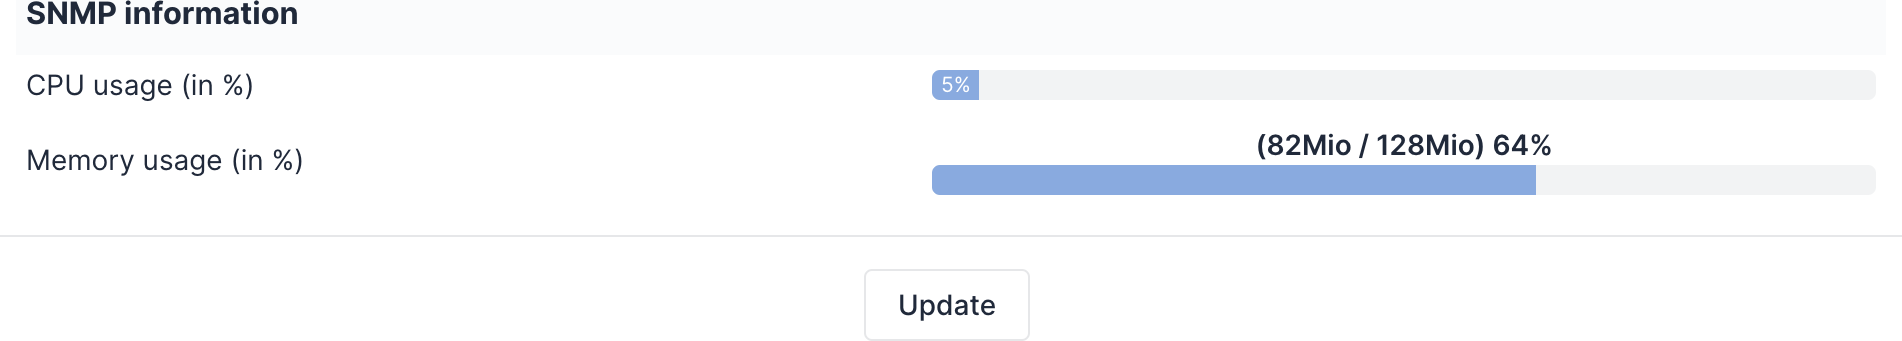
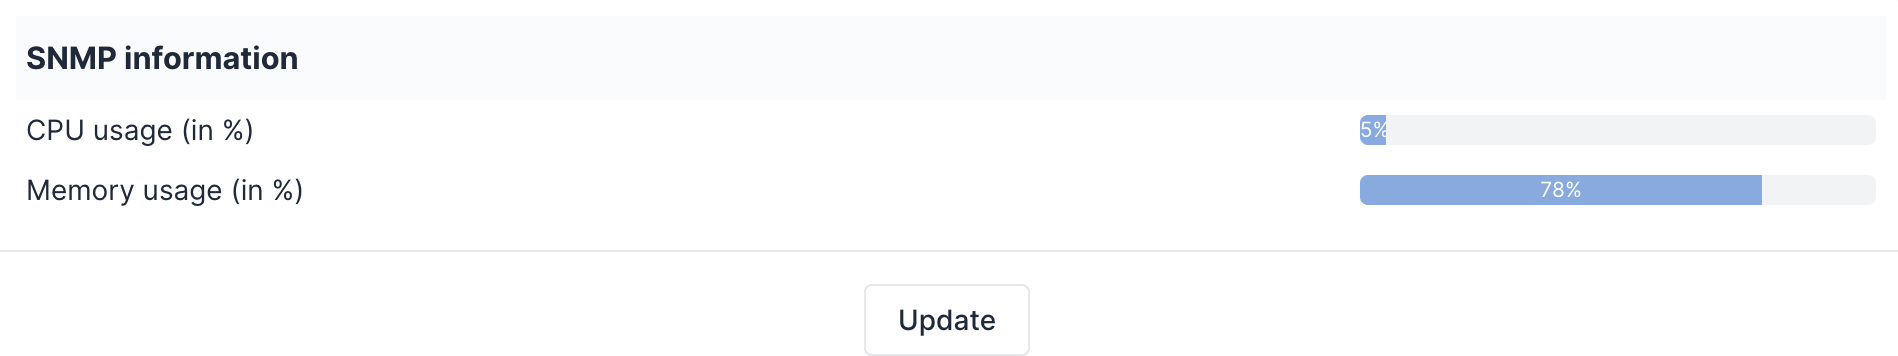
Update MEMORY usage calculation

diff --git a/inc/networkequipment.class.php b/inc/networkequipment.class.php
@@ -66,18 +66,21 @@ class PluginSwcpuramNetworkEquipment extends CommonDBTM {
       echo '</td>';
       echo '<td align="center">';
       
-        $ram_pourcentage = 0;
+        /* $ram_pourcentage = 0;
         if (!empty($item->getField('ram'))
             && !empty($item->getField('memory'))) {
             $ram_pourcentage = abs(ceil((100 * ($item->getField('memory') - $item->getField('ram'))) / $item->getField('ram')));
         }
         if ((($item->getField('ram') - $item->getField('memory')) < 0)
-            || (empty($item->getField('memory')))) {
+            || (empty($item->getField('memory')))) { */
+        if (empty($item->getField('memory'))) {
             echo "<center><strong>".__('No data available', 'swcpuram')."</strong></center>";
         } else {
-            Html::displayProgressBar(250, $ram_pourcentage,
+           /* Html::displayProgressBar(250, $ram_pourcentage,
                            ['title' => " <strong>(".($item->getField('ram') - $item->getField('memory')).__('Mio')." / ".
-                           $item->getField('ram').__('Mio').") ".$ram_pourcentage."% </strong>"]);
+                           $item->getField('ram').__('Mio').") ".$ram_pourcentage."% </strong>"]); */
+           Html::displayProgressBar(250, $item->getField('memory'),
+                              ['simple' => true]);
         }
       
       echo "</td>";

diff --git a/README.md b/README.md
@@ -9,9 +9,9 @@ Restores the tab "SNMP" tab to display "**CPU usage (in %)**" and "**Memory usag
 
 ## GLPI Agent modules
 
-You can improve CPU/memory parsing by applying the following patches to GLPI Agent:
+By default, this plug-in only provides "**CPU usage (in %)**". You can enhance GLPI Agent to parse "**Memory usage (%)**" as this plug-in re-introduces a legacy (discontinued) parameter (``MEMORY``) to store RAM usage data:
 
-  * [#649](https://github.com/glpi-project/glpi-agent/pull/649): Cisco Switches.
+  * [Additional GLPI Agent modules](https://github.com/eduardomozart/ScriptUtil/tree/master/Scripts/GLPI/Agent/SNMP).
 
 ## ToDo
 
@@ -22,8 +22,6 @@ Create a custom table for the plug-in and uses it to store CPU and RAM usage his
 You can help funding this plug-in through donations:
 
 [![Donate with PayPal](pics/paypal-donate-button.png)](https://www.paypal.com/donate/?business=X67223DNZCKW2&no_recurring=1)
-
-[![Show CPU-Memory Network Device Usage](https://nowpayments.io/images/embeds/donation-button-black.svg)](https://www.paypal.com/donate/?business=X67223DNZCKW2&no_recurring=1)
 
 ## Building
 
